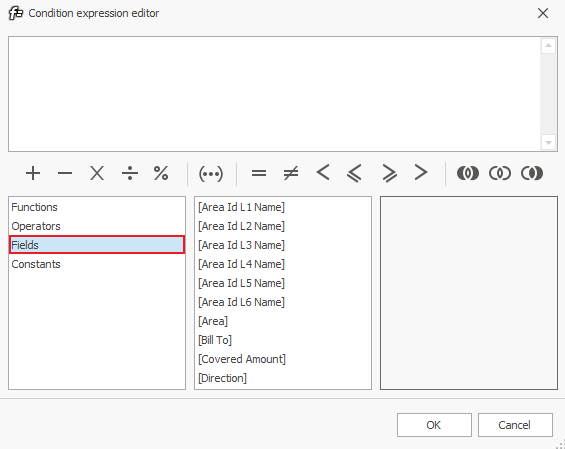
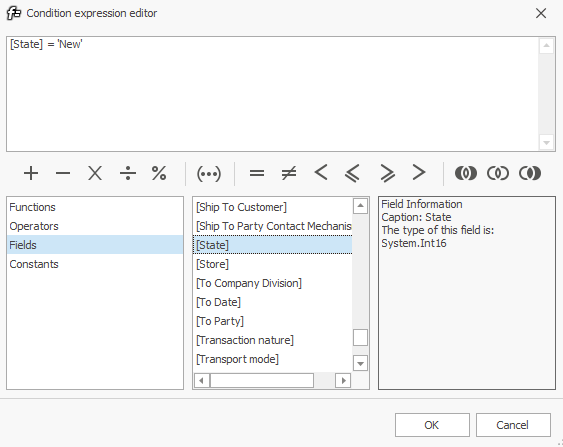
Latest changes from buid bot: 11:39 PM

diff --git a/docs/introduction/navigators/coloring/conditional-formatting.html b/docs/introduction/navigators/coloring/conditional-formatting.html
@@ -1,0 +1,142 @@
+<!DOCTYPE html>
+<!--[if IE]><![endif]-->
+<html>
+  
+  <head>
+    <meta charset="utf-8">
+    <meta http-equiv="X-UA-Compatible" content="IE=edge,chrome=1">
+    <title>Conditional formatting | ERP.net Windows Client </title>
+    <meta name="viewport" content="width=device-width">
+    <meta name="title" content="Conditional formatting | ERP.net Windows Client ">
+    <meta name="generator" content="docfx 2.56.9.0">
+    
+    <link rel="shortcut icon" href="../../../favicon.ico">
+    <link rel="stylesheet" href="../../../styles/docfx.vendor.css">
+    <link rel="stylesheet" href="../../../styles/docfx.css">
+    <link rel="stylesheet" href="../../../styles/main.css">
+    <meta property="docfx:navrel" content="../../../toc.html">
+    <meta property="docfx:tocrel" content="../../toc.html">
+    
+    <meta property="docfx:rel" content="../../../">
+    
+  </head>
+  <body data-spy="scroll" data-target="#affix" data-offset="120">
+    <div id="wrapper">
+      <header>
+        
+        <nav id="autocollapse" class="navbar navbar-inverse ng-scope" role="navigation">
+          <div class="container">
+            <div class="navbar-header">
+              <button type="button" class="navbar-toggle" data-toggle="collapse" data-target="#navbar">
+                <span class="sr-only">Toggle navigation</span>
+                <span class="icon-bar"></span>
+                <span class="icon-bar"></span>
+                <span class="icon-bar"></span>
+              </button>
+              
+              <a class="navbar-brand" href="../../../index.html">
+                <img id="logo" class="svg" src="../../../logo.svg" alt="">
+              </a>
+            </div>
+            <div class="collapse navbar-collapse" id="navbar">
+              <form class="navbar-form navbar-right" role="search" id="search">
+                <div class="form-group">
+                  <input type="text" class="form-control" id="search-query" placeholder="Search" autocomplete="off">
+                </div>
+              </form>
+            </div>
+          </div>
+        </nav>
+        
+        <div class="subnav navbar navbar-default">
+          <div class="container hide-when-search" id="breadcrumb">
+            <ul class="breadcrumb">
+              <li></li>
+            </ul>
+          </div>
+        </div>
+      </header>
+      <div class="container body-content">
+        
+        <div id="search-results">
+          <div class="search-list"></div>
+          <div class="sr-items">
+            <p><i class="glyphicon glyphicon-refresh index-loading"></i></p>
+          </div>
+          <ul id="pagination"></ul>
+        </div>
+      </div>
+      <div role="main" class="container body-content hide-when-search">
+        
+        <div class="sidenav hide-when-search">
+          <a class="btn toc-toggle collapse" data-toggle="collapse" href="#sidetoggle" aria-expanded="false" aria-controls="sidetoggle">Show / Hide Table of Contents</a>
+          <div class="sidetoggle collapse" id="sidetoggle">
+            <div id="sidetoc"></div>
+          </div>
+        </div>
+        <div class="article row grid-right">
+          <div class="col-md-10">
+            <article class="content wrap" id="_content" data-uid="">
+<h1 id="conditional-formatting">Conditional formatting</h1>
+
+<p>The procedure will show you how to format the size, thickness, style, and font color of the text, the color of the field frame in a given navigator. <br>
+For example, we will format the thickness and font color of the text of overdue liabilities from the rows in the <b> Payments Status Navigator</b>. <br><br>
+<b> Home Menu -&gt; Finance -&gt; Payments -&gt; Payments Status </b></p>
+<ol>
+<li>Click on <b>Show Data</b> and then right-click on a row of the Navigator. From the displayed menu select <b>Customize fields</b>;</li>
+<li>The <b>Customize fields</b> window will open. Click on the <b>Expression Format Conditions</b> button:</li>
+</ol>
+<p><img src="pictures/customize-fileds.png" alt="Customize fields"></p>
+<p>A window will open for you to enter the desired conditions:</p>
+<p><img src="pictures/format-conditions.png" alt="Format Conditions"></p>
+<ol start="3">
+<li>Click on Add to start making a new condition. Here select the <b>Fields</b> option on the left. In the small, middle section you will see all fields that you can use to set conditional coloring for:</li>
+</ol>
+<p><img src="pictures/condition-expression-editor.png" alt="Condition expression editor"></p>
+<p>In this case, we will set all new invoices to show in bold. For that purpose, double click on the <b>State</b> field (it will show up at the top of the window). Then manually type in there <b> == ‘New’</b> (two times the equal-to sign and the word New in single quotes).</p>
+<p>Click the “OK” button.</p>
+<p><img src="pictures/new-state-condition.png" alt="New state condition"></p>
+<ol start="4">
+<li>After you set the condition, you can choose a color and set a bold font, as you see in the picture above.</li>
+<li>After you close the window, the program will display all new invoices in bold:</li>
+</ol>
+<p><img src="pictures/orders-in-bold.png" alt="Orders in bold"></p>
+</article>
+          </div>
+          
+          <div class="hidden-sm col-md-2" role="complementary">
+            <div class="sideaffix">
+              <div class="contribution">
+                <ul class="nav">
+                  <li>
+                    <a href="https://github.com/ErpNetDocs/winclient/blob/master/introduction/navigators/coloring/conditional-formatting.md/#L1" class="contribution-link">Improve this Doc</a>
+                  </li>
+                </ul>
+              </div>
+              <nav class="bs-docs-sidebar hidden-print hidden-xs hidden-sm affix" id="affix">
+              <!-- <p><a class="back-to-top" href="#top">Back to top</a><p> -->
+              </nav>
+            </div>
+          </div>
+        </div>
+      </div>
+      
+      <footer>
+        <div class="grad-bottom"></div>
+        <div class="footer">
+          <div class="container">
+            <span class="pull-right">
+              <a href="#top">Back to top</a>
+            </span>
+            
+            <span>Generated by <strong>DocFX</strong></span>
+          </div>
+        </div>
+      </footer>
+    </div>
+    
+    <script type="text/javascript" src="../../../styles/docfx.vendor.js"></script>
+    <script type="text/javascript" src="../../../styles/docfx.js"></script>
+    <script type="text/javascript" src="../../../styles/main.js"></script>
+  </body>
+</html>

diff --git a/docs/introduction/navigators/coloring/coloring-by-cell.html b/docs/introduction/navigators/coloring/coloring-by-cell.html
@@ -1,0 +1,138 @@
+<!DOCTYPE html>
+<!--[if IE]><![endif]-->
+<html>
+  
+  <head>
+    <meta charset="utf-8">
+    <meta http-equiv="X-UA-Compatible" content="IE=edge,chrome=1">
+    <title>Coloring by cell | ERP.net Windows Client </title>
+    <meta name="viewport" content="width=device-width">
+    <meta name="title" content="Coloring by cell | ERP.net Windows Client ">
+    <meta name="generator" content="docfx 2.56.9.0">
+    
+    <link rel="shortcut icon" href="../../../favicon.ico">
+    <link rel="stylesheet" href="../../../styles/docfx.vendor.css">
+    <link rel="stylesheet" href="../../../styles/docfx.css">
+    <link rel="stylesheet" href="../../../styles/main.css">
+    <meta property="docfx:navrel" content="../../../toc.html">
+    <meta property="docfx:tocrel" content="../../toc.html">
+    
+    <meta property="docfx:rel" content="../../../">
+    
+  </head>
+  <body data-spy="scroll" data-target="#affix" data-offset="120">
+    <div id="wrapper">
+      <header>
+        
+        <nav id="autocollapse" class="navbar navbar-inverse ng-scope" role="navigation">
+          <div class="container">
+            <div class="navbar-header">
+              <button type="button" class="navbar-toggle" data-toggle="collapse" data-target="#navbar">
+                <span class="sr-only">Toggle navigation</span>
+                <span class="icon-bar"></span>
+                <span class="icon-bar"></span>
+                <span class="icon-bar"></span>
+              </button>
+              
+              <a class="navbar-brand" href="../../../index.html">
+                <img id="logo" class="svg" src="../../../logo.svg" alt="">
+              </a>
+            </div>
+            <div class="collapse navbar-collapse" id="navbar">
+              <form class="navbar-form navbar-right" role="search" id="search">
+                <div class="form-group">
+                  <input type="text" class="form-control" id="search-query" placeholder="Search" autocomplete="off">
+                </div>
+              </form>
+            </div>
+          </div>
+        </nav>
+        
+        <div class="subnav navbar navbar-default">
+          <div class="container hide-when-search" id="breadcrumb">
+            <ul class="breadcrumb">
+              <li></li>
+            </ul>
+          </div>
+        </div>
+      </header>
+      <div class="container body-content">
+        
+        <div id="search-results">
+          <div class="search-list"></div>
+          <div class="sr-items">
+            <p><i class="glyphicon glyphicon-refresh index-loading"></i></p>
+          </div>
+          <ul id="pagination"></ul>
+        </div>
+      </div>
+      <div role="main" class="container body-content hide-when-search">
+        
+        <div class="sidenav hide-when-search">
+          <a class="btn toc-toggle collapse" data-toggle="collapse" href="#sidetoggle" aria-expanded="false" aria-controls="sidetoggle">Show / Hide Table of Contents</a>
+          <div class="sidetoggle collapse" id="sidetoggle">
+            <div id="sidetoc"></div>
+          </div>
+        </div>
+        <div class="article row grid-right">
+          <div class="col-md-10">
+            <article class="content wrap" id="_content" data-uid="">
+<h1 id="coloring-by-cell">Coloring by cell</h1>
+
+<p>This procedure will show you how to color individual cells (fields) in a navigator.</p>
+<p>As an example, we will set all invoices with an amount to pay bigger than 7000 BGN to color in red, in the <b> Sales Orders Navigator</b>. For this purpose you can go to: <br>
+<b>Home Menu -&gt; CUSTOMERS -&gt; DOCUMENTS -&gt; Orders Navigator</b>.</p>
+<p>The <b> Sales Orders </b> Navigator shows the sales orders issued to/from different contractors – customers, suppliers.</p>
+<ol>
+<li>Click on <b>Show Data</b> and then right-click on a row of the Navigator. From the displayed menu select <b>Customize fields</b>;</li>
+<li>Select a given field. In this case, click <b>Amount To Pay</b> and then <b>Properties…</b>: <br></li>
+</ol>
+<p><img src="pictures/amount-to-pay.png" alt="Amount to pay"></p>
+<ol start="3">
+<li><b>Field Properties</b> window will open. From here, go to the <b>Format Condition</b> tab and check the <b>Enable Format Condition</b> box. As a condition, select <b>Greater</b> and set Value 1 to be 7 000. After this, you can choose the color:</li>
+</ol>
+<p><img src="pictures/format-condition.png" alt="Format condition"></p>
+<p>The check box <b>Apply to row</b> gives you the opportunity to only color the selected cell (when its left unchecked) or to color the entire row when the field conditions are met.</p>
+<ol start="4">
+<li>Click “OK” and close the Fields Properties window. Now every cell with an amount to pay over 7 000 BGN will color in red:</li>
+</ol>
+<p><img src="pictures/colored-cell.png" alt="Colored cell"></p>
+</article>
+          </div>
+          
+          <div class="hidden-sm col-md-2" role="complementary">
+            <div class="sideaffix">
+              <div class="contribution">
+                <ul class="nav">
+                  <li>
+                    <a href="https://github.com/ErpNetDocs/winclient/blob/master/introduction/navigators/coloring/coloring-by-cell.md/#L1" class="contribution-link">Improve this Doc</a>
+                  </li>
+                </ul>
+              </div>
+              <nav class="bs-docs-sidebar hidden-print hidden-xs hidden-sm affix" id="affix">
+              <!-- <p><a class="back-to-top" href="#top">Back to top</a><p> -->
+              </nav>
+            </div>
+          </div>
+        </div>
+      </div>
+      
+      <footer>
+        <div class="grad-bottom"></div>
+        <div class="footer">
+          <div class="container">
+            <span class="pull-right">
+              <a href="#top">Back to top</a>
+            </span>
+            
+            <span>Generated by <strong>DocFX</strong></span>
+          </div>
+        </div>
+      </footer>
+    </div>
+    
+    <script type="text/javascript" src="../../../styles/docfx.vendor.js"></script>
+    <script type="text/javascript" src="../../../styles/docfx.js"></script>
+    <script type="text/javascript" src="../../../styles/main.js"></script>
+  </body>
+</html>

diff --git a/docs/introduction/toc.html b/docs/introduction/toc.html
@@ -152,6 +152,12 @@
                                     <li>
                                         <a href="navigators/coloring/overview.html" name="" title="Overview">Overview</a>
                                     </li>
+                                    <li>
+                                        <a href="navigators/coloring/coloring-by-row.html" name="" title="Coloring by row">Coloring by row</a>
+                                    </li>
+                                    <li>
+                                        <a href="navigators/coloring/coloring-by-cell.html" name="" title="Coloring by cell">Coloring by cell</a>
+                                    </li>
                               </ul>
                           </li>
                     </ul>
